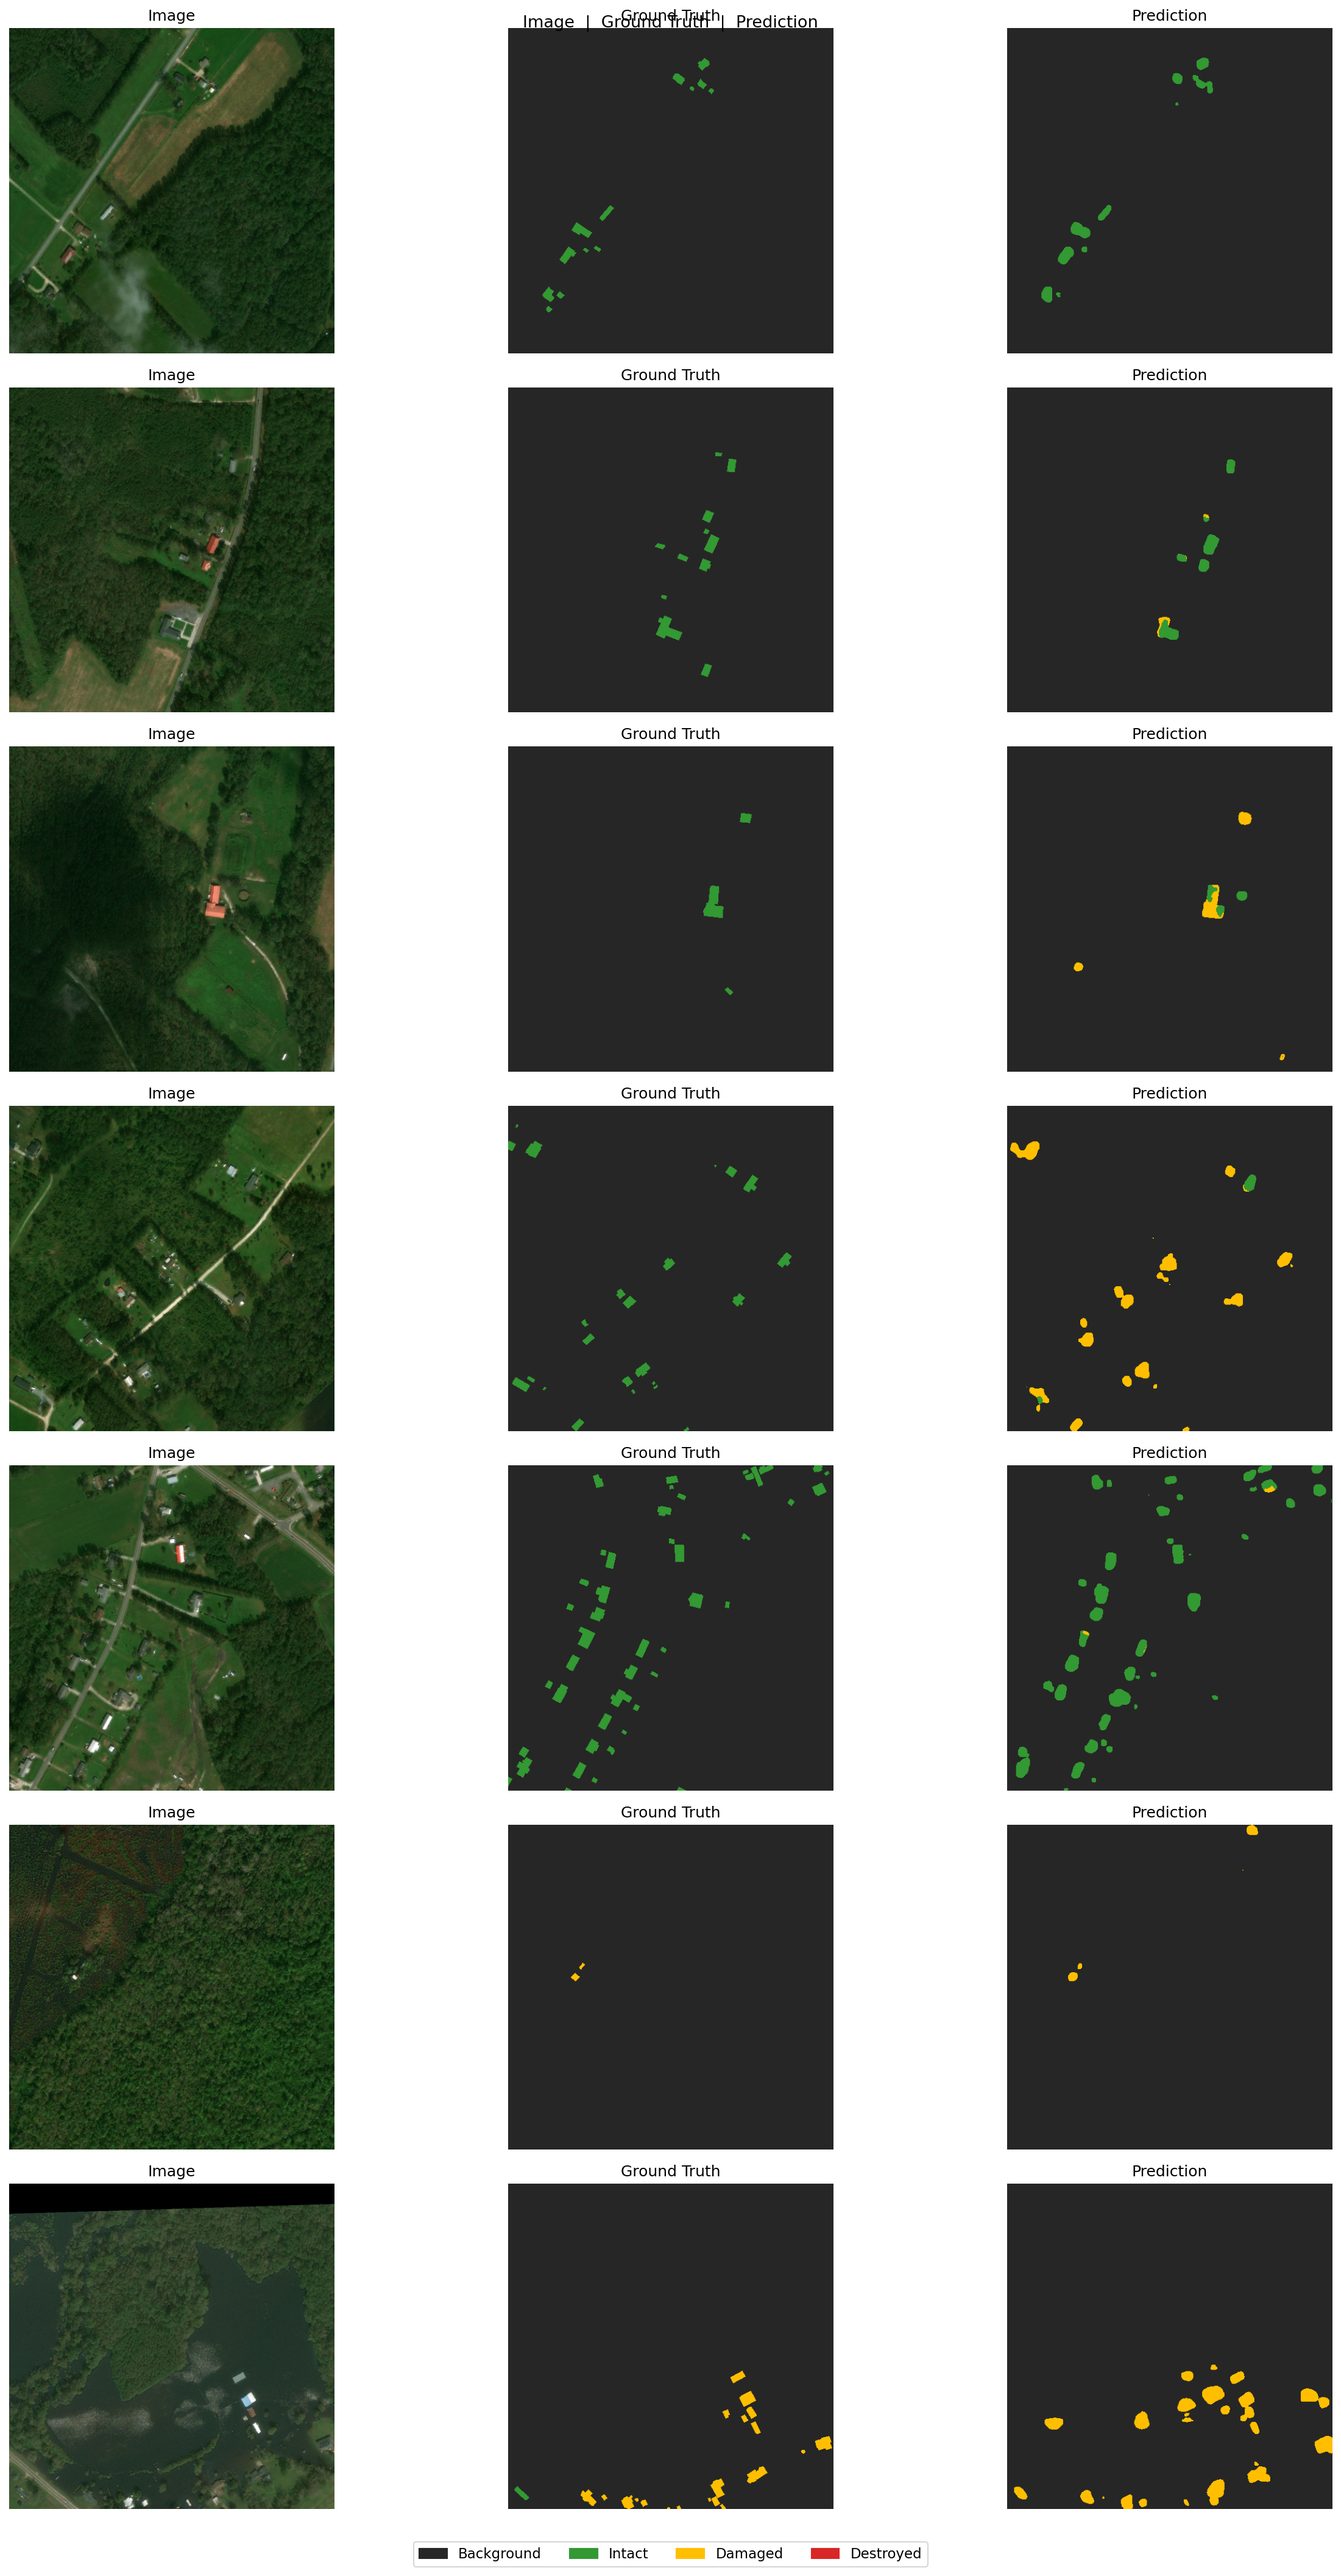
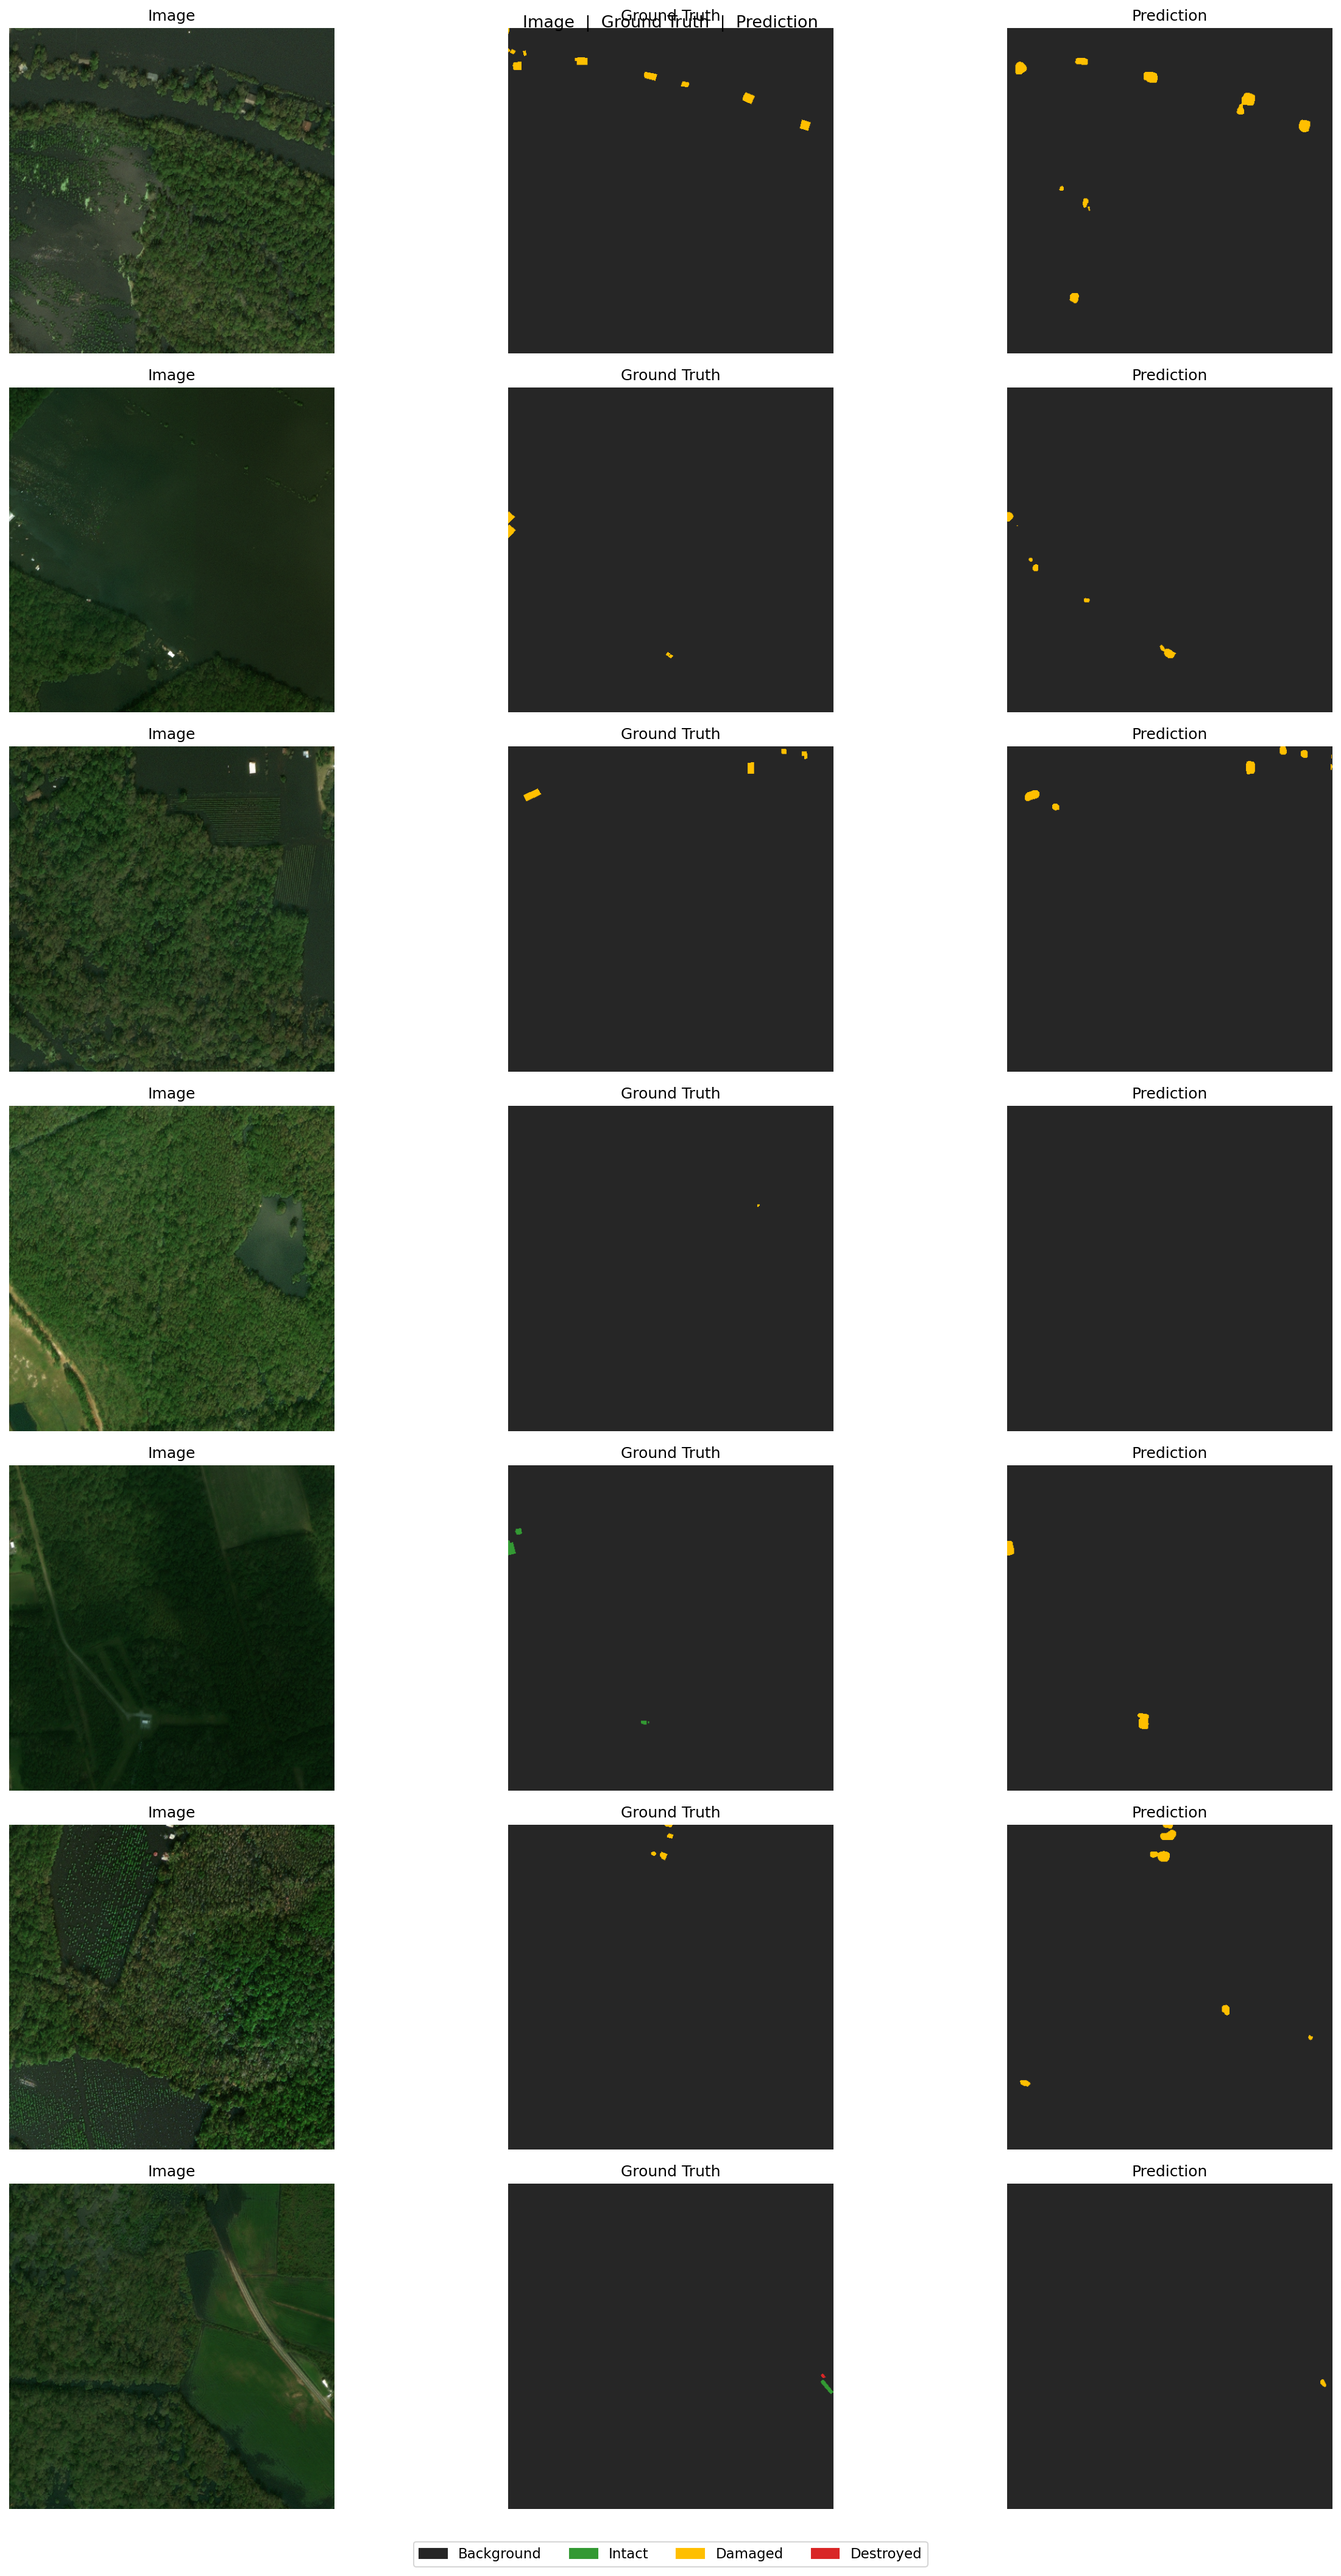
more eval results

diff --git a/evaluate.py b/evaluate.py
@@ -1,197 +1,3 @@
-# import torch
-# import yaml
-# from omegaconf import OmegaConf
-# from torch.amp import autocast
-# from pathlib import Path
-# from src.data.dataloader import get_dataloaders
-# from src.models.siamese_unet import SiameseUNet
-# from src.training.metrics import SegmentationMetrics
-# from src.training.losses import CombinedLoss
-# from src.training.trainer import NUM_CLASSES, LABEL_NAMES, CLASS_WEIGHTS, IGNORE_INDEX
-# from train import build_model
-
-# import matplotlib.pyplot as plt
-# import matplotlib.patches as mpatches
-# import numpy as np
-# import random
-
-# SCRIPT_DIR = Path(__file__).resolve().parent
-
-# def evaluate(
-#     cfg_path:  str = str(SCRIPT_DIR / "train_config.yaml"),
-#     ckpt_path: str = str(SCRIPT_DIR / "checkpoints"/ "xview2" / "UNet.pth"),
-# ):
-
-#     cfg    = OmegaConf.load(cfg_path)
-#     device = torch.device("cuda" if torch.cuda.is_available() else "cpu")
-
-#     _, _, test_loader = get_dataloaders(cfg)
-
-#     if test_loader is None:
-#         print("No test split found.")
-#         return
-
-#     # 
-#     model = build_model(cfg).to(device)
-
-#     ckpt = torch.load(ckpt_path, map_location=device, weights_only=True)
-#     model.load_state_dict(ckpt["model_state"])
-#     model.eval()
-
-#     print(f"Checkpoint   : {ckpt_path}")
-#     print(f"Epoch        : {ckpt['epoch']}")
-#     print(f"Val mIoU     : {ckpt['val_mean_iou']:.4f}\n")
-
-#     # ── Reuse your existing loss + metrics ────────────────────────────
-#     criterion = CombinedLoss(
-#         class_weights=CLASS_WEIGHTS,
-#         num_classes=NUM_CLASSES,
-#         ignore_index=IGNORE_INDEX,
-#     ).to(device)
-
-#     metrics    = SegmentationMetrics(device=device)
-#     total_loss = 0.0
-#     n_batches  = 0
-
-#     # ── Test loop ─────────────────────────────────────────────────────
-#     with torch.no_grad():
-#         for batch in test_loader:
-#             optical       = batch["optical"].to(device)
-#             sar           = batch["sar"].to(device)
-#             targets       = batch["label"].to(device)
-#             optical_valid = batch["optical_valid"].to(device)
-
-#             with autocast(device_type=device.type, enabled=device.type == "cuda"):
-#                 logits           = model(optical, sar, optical_valid)
-#                 loss, _, _       = criterion(logits, targets)
-
-#             total_loss += loss.item()
-#             n_batches  += 1
-#             metrics.update(logits, targets)
-
-#     # ── Results ───────────────────────────────────────────────────────
-#     results = metrics.compute()
-    
-#     print("Available metric keys:", list(results.keys()))
-
-#     print("─" * 42)
-#     print(f"  Test Loss     : {total_loss / n_batches:.4f}")
-#     print(f"  Test mIoU     : {results['mean_iou']:.4f}")
-#     print(f"  Test mean F1  : {results['mean_f1']:.4f}")
-#     print(f"  Test mean Acc : {results['mean_acc']:.4f}")
-#     print("─" * 42)
-    
-#     CLASS_NAMES = ["Background", "Intact", "Damaged", "Destroyed"]
-
-#     print("─" * 50)
-#     print(f"  {'Class':<12} {'IoU':>8}  {'F1':>8}  {'Acc':>8}")
-#     print("─" * 50)
-#     for name in CLASS_NAMES[1:]:   # skip Background
-#         iou = results.get(f"iou/{name}", float("nan"))
-#         f1  = results.get(f"f1/{name}",  float("nan"))
-#         acc = results.get(f"acc/{name}", float("nan"))
-#         print(f"  {name:<12}  {iou:>8.4f}  {f1:>8.4f}  {acc:>8.4f}")
-#     print("─" * 50)
-#     print(f"  {'Mean (1-3)':<12}  {results['mean_iou']:>8.4f}  {results['mean_f1']:>8.4f}  {results['mean_acc']:>8.4f}")
-#     print("─" * 50)
-    
-#         # ── After printing metrics — visualise random test samples ────────
-#     visualise_samples(
-#         model       = model,
-#         test_loader = test_loader,
-#         device      = device,
-#         save_dir    = str(SCRIPT_DIR / "checkpoints"),
-#         n_samples   = 4,     # ← change to see more samples
-#     )
-
-# PALETTE = {
-#     0: (0.15, 0.15, 0.15),   # Background — dark grey
-#     1: (0.20, 0.60, 0.20),   # Intact     — green
-#     2: (1.00, 0.75, 0.00),   # Damaged    — amber
-#     3: (0.85, 0.15, 0.15),   # Destroyed  — red
-# }
-
-# def labels_to_rgb(mask: np.ndarray) -> np.ndarray:
-#     """Convert (H,W) int mask → (H,W,3) RGB using PALETTE."""
-#     rgb = np.zeros((*mask.shape, 3), dtype=np.float32)
-#     for cls, colour in PALETTE.items():
-#         rgb[mask == cls] = colour
-#     return rgb
-
-
-# def visualise_samples(model, test_loader, device, save_dir: str, n_samples: int = 4):
-#     """Pick one random batch and save n_samples side-by-side comparisons."""
-
-#     model.eval()
-#     save_path = Path(save_dir) / "test_samples.png"
-
-#     # ── Grab one random batch ─────────────────────────────────────────
-#     batch = random.choice(list(test_loader))
-
-#     optical       = batch["optical"].to(device)
-#     sar           = batch["sar"].to(device)
-#     optical_valid = batch["optical_valid"].to(device)
-#     targets       = batch["label"]                     # keep on CPU for plotting
-
-#     with torch.no_grad():
-#         with autocast(device_type=device.type, enabled=device.type == "cuda"):
-#             logits = model(optical, sar, optical_valid)
-#     preds = logits.argmax(dim=1).cpu()                 # (B, H, W)
-
-#     # ── Plot ──────────────────────────────────────────────────────────
-#     n = min(n_samples, optical.size(0))
-#     fig, axes = plt.subplots(n, 4, figsize=(18, 4 * n))
-#     fig.suptitle("Test Samples — Optical | SAR | Ground Truth | Prediction", fontsize=13)
-
-#     if n == 1:
-#         axes = axes[np.newaxis, :]   # ensure 2D indexing
-
-#     for i in range(n):
-#         # Optical — denormalise from ImageNet mean/std
-#         opt_img = optical[i].cpu().permute(1, 2, 0).numpy()
-#         mean    = np.array([0.485, 0.456, 0.406])
-#         std     = np.array([0.229, 0.224, 0.225])
-#         opt_img = (opt_img * std + mean).clip(0, 1)
-
-#         # SAR — single channel
-#         sar_img = sar[i].cpu().squeeze().numpy()
-#         sar_img = (sar_img - sar_img.min()) / (sar_img.max() - sar_img.min() + 1e-6)
-
-#         gt_rgb   = labels_to_rgb(targets[i].numpy())
-#         pred_rgb = labels_to_rgb(preds[i].numpy())
-
-#         axes[i, 0].imshow(opt_img);           axes[i, 0].set_title("Optical")
-#         axes[i, 1].imshow(sar_img, cmap="gray"); axes[i, 1].set_title("SAR")
-#         axes[i, 2].imshow(gt_rgb);            axes[i, 2].set_title("Ground Truth")
-#         axes[i, 3].imshow(pred_rgb);          axes[i, 3].set_title("Prediction")
-
-#         for ax in axes[i]:
-#             ax.axis("off")
-
-#     # ── Legend ────────────────────────────────────────────────────────
-#     legend = [
-#         mpatches.Patch(color=PALETTE[0], label="Background"),
-#         mpatches.Patch(color=PALETTE[1], label="Intact"),
-#         mpatches.Patch(color=PALETTE[2], label="Damaged"),
-#         mpatches.Patch(color=PALETTE[3], label="Destroyed"),
-#     ]
-#     fig.legend(handles=legend, loc="lower center", ncol=4,
-#             bbox_to_anchor=(0.5, -0.02), fontsize=11)
-
-#     plt.tight_layout()
-#     plt.savefig(save_path, dpi=150, bbox_inches="tight")
-#     plt.close()
-#     print(f"Samples saved → {save_path}")
-
-
-# if __name__ == "__main__":
-#     import argparse
-#     parser = argparse.ArgumentParser()
-#     parser.add_argument("--config", default=str(SCRIPT_DIR / "configs/train_config.yaml"))
-#     parser.add_argument("--ckpt",   default=str(SCRIPT_DIR / "checkpoints" / "UNet.pth"))
-#     args = parser.parse_args()
-#     evaluate(args.config, args.ckpt)
-
 import torch
 from omegaconf import OmegaConf
 from torch.amp import autocast
